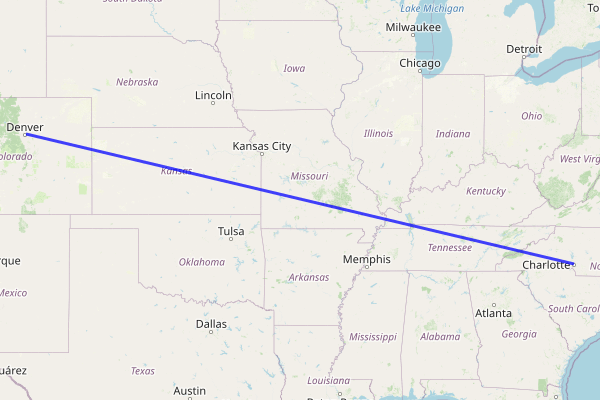
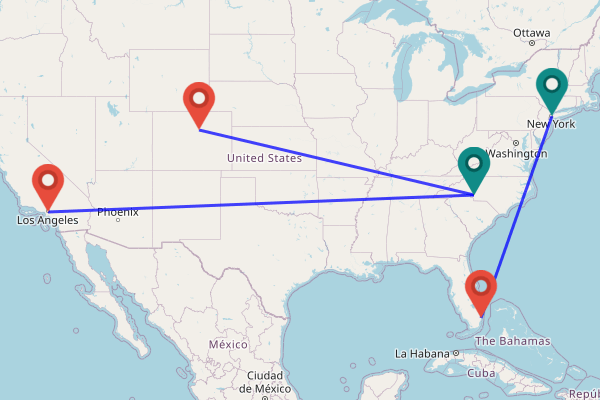
Added markers

diff --git a/controllers/controller.js b/controllers/controller.js
@@ -13,7 +13,23 @@ const options = {
     width: 600,
     height: 400,
   };
-let map = new StaticMaps(options);
+  let map = new StaticMaps(options);
+  const sMarker = {
+    img: 'public/images_for_weather/start.png', 
+    offsetX: 24,
+    offsetY: 48,
+    width: 48,
+    height: 48
+  };
+
+  const dMarker = {
+    img: 'public/images_for_weather/dest.png',
+   offsetX: 24,
+    offsetY: 48,
+    width: 48,
+    height: 48
+  };
+
 
 //GET "/" & GET "/travel": Render the Travel page when the user accesses the home page.
 exports.travel = (request, response) => {
@@ -126,6 +142,10 @@ exports.travelShow = (request, response) => {
             width: 3
           };
           map.addLine(line);
+          sMarker.coord = [cityDetails[0].lng,cityDetails[0].lat];
+          map.addMarker(sMarker);
+          dMarker.coord = [cityDetails[cityDetails.length-1].lng,cityDetails[cityDetails.length-1].lat]
+          map.addMarker(dMarker);
           await map.render();
           await map.image.save('public/images_for_weather/polyline.png');
 
